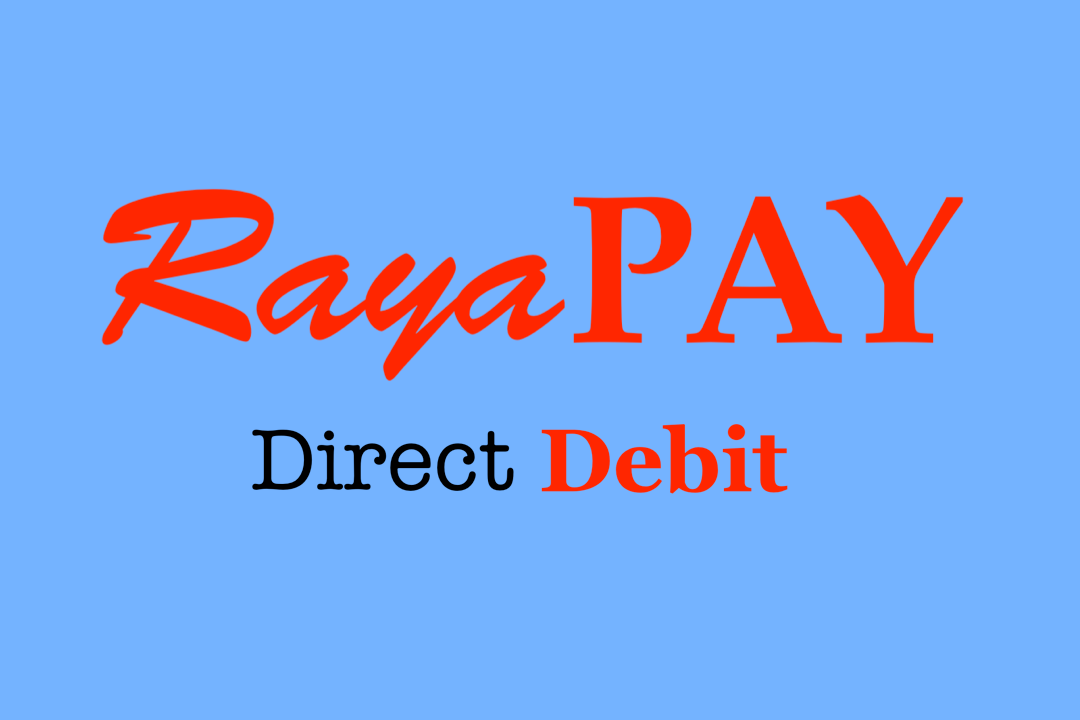
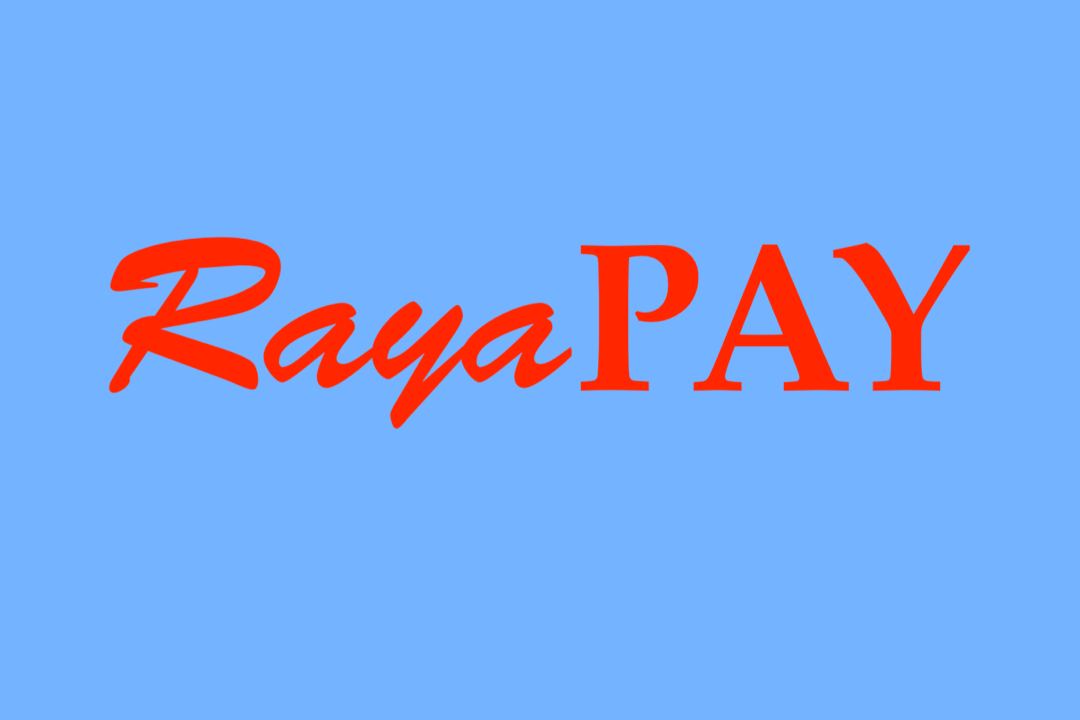
fix

Changed region(s): [[0.0917, 0.2444, 0.9167, 0.7028]]

diff --git a/index.php b/index.php
@@ -178,7 +178,7 @@
             <figure>
               <img src="assets/img/rayapay.png" class="img-responsive">
               <figcaption>
-                <h2>Rayapay - Direct Debit</h2>
+                <h2>Rayapay</h2>
                 <p>A convenience for customers in the e-commerce payment process where many partners are incorporated in Rayapay, and are able to distribute the settlement process to the Bank or related E-Wallet according to the merchant's request.</p>
               </figcaption>
             </figure>
